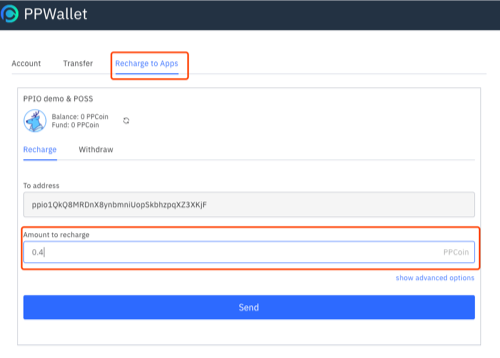
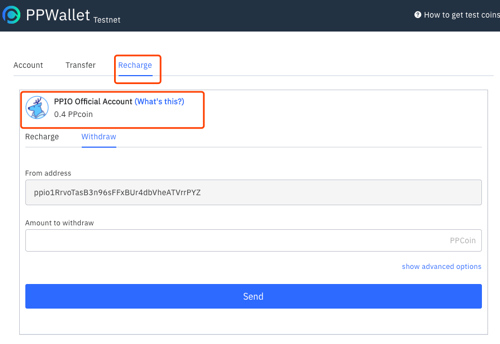
add  & change resource url

Changed region(s): [[0.03, 0.1453, 0.99, 0.9593], [0.0, 0.0, 1.0, 0.1163], [0.0, 0.1744, 0.09, 0.2035]]

diff --git a/sdk/Android.md b/sdk/Android.md
@@ -1,1 +1,155 @@
 # Android SDK
+## Introduction
+Android sdk is a Binary archive of Android library project for [PPIO CLI](https://www.pp.io/docs/cli/) intended for Android developers. It can be used in Android environments.
+
+## Getting started
+### Prepared your PPIO wallet account
+You must have a PPIO wallet account first. Make sure this account has PPcoin. And you need to recharge some PPcoin to PPIO. This is a [guide](../wallet/) to teach you how to generate a PPIO wallet account and get some of our test coins for free.
+
+### Install
+download `ppio.aar` from [here](https://github.com/ppio/ppio-sdk-android), and put it in the libs directory of your android project. then deploy app build.gradle.
+```
+apply plugin: 'com.android.application'
+
+android {
+   ...
+   repositories {
+     flatDir {
+       dirs 'libs'
+     }
+   }
+
+   dependencies {
+      ...
+      implementation(name: 'ppio', ext: 'aar')  
+      ...
+  }
+}
+```
+
+### Configuration
+```Java
+Config config = Poss.createDefaultConfig();
+
+config.setTCPPort(8068);
+config.setUDPPort(8068);
+config.setRPCPort(18068);
+
+config.setZone(2);
+
+File cacheDir = new File(Constant.PPIO_File.CACHE_DIR);
+
+config.setDir(cacheDir.getAbsolutePath());
+
+config.setTestNet("test");
+
+config.setBootstrap("[\n" +
+                        "  {\n" +
+                        "    \"Name\": \"ali-bootstrap\",\n" +
+                        "    \"IP\": \"47.110.88.167\",\n" +
+                        "    \"TCPPort\": 8020,\n" +
+                        "    \"UDPPort\": 8020,\n" +
+                        "    \"PeerID\": \"\"\n" +
+                        "  },\n" +
+
+                        "  {\n" +
+                        "    \"Name\": \"aws-bootstrap\",\n" +
+                        "    \"IP\": \"54.202.181.27\",\n" +
+                        "    \"TCPPort\": 8020,\n" +
+                        "    \"UDPPort\": 8020,\n" +
+                        "    \"PeerID\": \"\"\n" +
+                        "  }\n" +
+                        "]");
+
+config.getPayment().setIP("ad04b30b910c311e9b71c02d26ce9aff-567092461.us-west-
+2.elb.amazonaws.com");
+config.getPayment().setUDPPort(0);
+config.getPayment().setTCPPort(0);
+config.getPayment().setHTTPPort(18030);
+
+if (mIsOffice) {
+    config.getQosServerConfig().setEnable(true);
+    config.getQosServerConfig().setNetwork("udp");
+    config.getQosServerConfig().setAddr("192.168.50.208:9090");
+    config.getQosServerConfig().setTag("ppioqos");
+    config.getQosServerConfig().setDir(Constant.PPIO_File.CACHE_QOS_DIR);
+} else {
+    config.getQosServerConfig().setEnable(true);
+    config.getQosServerConfig().setNetwork("udp");
+    config.getQosServerConfig().setAddr("ad416ba1c124611e9a39d06111ae4d23-1840383830.us-west-2.elb.amazonaws.com:80");
+    config.getQosServerConfig().setTag("ppioqos");
+    config.getQosServerConfig().setDir(Constant.PPIO_File.CACHE_QOS_DIR);
+}
+
+Poss.initKeyStoreData(keyStoreStr, config.getDir());
+config.setKeyPassphrase(passPhrase);
+
+mUser = Poss.createUser(config);
+mUser.startDaemon();
+```
+
+* keyStoreStr：the keystore file content you get from the wallet;
+* passPhrase: the password for the keystore file;
+* Constant.PPIO_File.CACHE_DIR: the path of data directory you should set for the SDK.
+
+
+## Usage
+
+### Create a instance
+```java
+Poss.initKeyStoreData(keyStoreStr, config.getDir());
+config.setKeyPassphrase(passPhrase);
+
+mUser = Poss.createUser(config);
+```
+Before you can do this, you must first initialize keyStoreStr and passPhrase.
+
+### Start a PPIO daemon
+```java
+mUser.startDaemon();
+```
+
+### Stop the daemon
+```java
+mUser.stopDaemon();
+```
+
+## Other methods
+### createBucket
+```java
+mUser.createBucket(String bucket)
+```
+### putObject
+```java
+putObject(String bucket, String key, String file, String meta, String chiprice, long copies, String expires, boolean encrypt)
+```
+
+```java
+putObjectSync(String bucket, String key, String file, String meta, String chiprice, long copies, String expires, boolean encrypt)
+```
+This will upload a file to the net in the bucket and `key.putObject` is a asynchronous method, `putObjectSync` is a synchronize method.
+|Parameters|Type|Default|Description|
+|--|--|--|--|
+|bucket|string|None|Bucket name. Store objects in this bucket.|
+|key|string|None|Object key value. The unique index of the object within the bucket. The key length must be greater than 0 and less than 4096 bytes. You can use this to implement the object's directory|
+|body|string|None|The file path that needs to be uploaded. Without this parameter, an empty object (which can be thought of as an empty folder) is created inside the bucket. Empty files (0 bytes in size) and files larger than 10G are not supported.|
+|meta|string|None|Ancillary data for the object. Can't exceed 4096 bytes.|
+|chiprice|string|None|Store the price of the file. The indexer will schedule the storage miners based on this price, so the user's bid is reasonable, otherwise it may not be able to find a miner who is willing to provide storage services. This parameter is not required when creating an empty object.|
+|copies|int|5|The number of copies. Must be greater than 1 and less than or equal to 10. The default is 5. This parameter is not required when creating an empty object.|
+|expires|string|None|Expire date. The object is stored to this date and will be deleted if the user does not choose to extend the storage time after expiration. Supports dates in two formats, such as "2006-01-02" or "2006-01-02T15:04:05.000Z". The current time must be greater than or equal to one day, less than or equal to one year (365 days). This parameter is not required when creating an empty object.|
+|encrypt|bool|None|Whether encrypted, must be true|
+
+### getObject
+```java
+getObject(String bucket, String key, String shareCode, String file, String chiprice)
+```
+Get an object from the PPIO system to the local.
+|Parameters|Type|Default|Description|
+|--|--|--|--|
+|bucket|string|None|The bucket in which the object is located.|
+|key|string|None|The key value of the object.|
+|sharecode|string|None|Sharing code. This parameter is used when the bucket and key are empty.|
+|file|string|None|The file name to which the object is downloaded to the local. Absolute or relative paths can be|
+|chiprice|string|None|File download price.|
+
+**You can see all the methods [here](../api/).**

diff --git a/sdk/Nodejs.md b/sdk/Nodejs.md
@@ -1,11 +1,11 @@
-# poss-sdk-js
+# Node.js SDK
 
 ## Introduction
 Poss-sdk-js provides a node.js SDK that encapsulates the JSON-RPC services provided by poss. Developers who want to use the SDK need to download the [poss executable](https://www.pp.io/download.html) and start the poss service in the background fisrt.
 
 ## Getting started
 ### Prepared your PPIO wallet account
-You must have a PPIO wallet account first. Make sure this account has PPcoin. And you need to recharge some PPcoin to POSS. This is a [guide](../wallet/) to teach you how to generate a PPIO wallet account and get some of our test coins for free.
+You must have a PPIO wallet account first. Make sure this account has PPcoin. And you need to recharge some PPcoin to PPIO. This is a [guide](../wallet/) to teach you how to generate a PPIO wallet account and get some of our test coins for free.
 
 ### Install poss-sdk-js
 ```
@@ -15,38 +15,38 @@ npm install poss
 ### Download poss
 Since poss-sdk-js does not provide poss executable. You need to download it first.
 - **Windows:**  
-  Download the binary from [here](https://resource.testnet.pp.io/poss/release/windows-amd64/0.4.15/poss.exe).
+  Download the binary from [here](https://resource.testnet.pp.io/poss/release/windows-amd64/latest/poss.exe).
   ``` powershell
     poss.exe --help
   ```
 
 - **Mac OsX**  
     ``` bash
-      wget https://resource.testnet.pp.io/poss/release/macos/0.4.15/poss
+      wget https://resource.testnet.pp.io/poss/release/macos/latest/poss
       chmod -x poss
       ./poss --help
     ```
 
 - Linux:  
     ``` bash
-      wget https://resource.testnet.pp.io/poss/release/linux-amd64/0.4.15/poss
+      wget https://resource.testnet.pp.io/poss/release/linux-amd64/latest/poss
       chmod -x poss
       ./poss --help
     ```
 
 
-### Initialize POSS and start a POSS service in the background
-You can do these by [POSS CLI](../cli/#init).
+### Initialize PPIO and start a PPIO service in the background
+You can do these by [PPIO CLI](../cli/#init).
 ```bash
-# import your walllet user credentials into POSS CLI
+# import your walllet user credentials into PPIO CLI
 ./poss init --keystorepath=[your keystore file absolute path]
 
-# start the poss service background
+# start the PPIO service background
 ./poss start --daemon --passphrase=[your wallet password]
 ```
 or
 ```bash
-# import your walllet user credentials into POSS CLI and start the poss service background
+# import your walllet user credentials into PPIO CLI and start the PPIO service background
 ./poss start --daemon --keystorepath=[your keystore file absolute path] --passphrase=[your wallet password]
 ```
 
@@ -115,7 +115,7 @@ const poss = new Poss({
 | :------: | :------: | :------ |
 | [options] | `object` | The options of poss instance |
 | [options.possExecutablePath] (optional) | `string` | The path of the poss executable, will take no effect in browsers. |
-| [options.rpcport] (optional) | `number` | The RPC port of a running POSS daemon. If you are running POSS daemon from the terminal, use this config to indicate the RPC port the daemon is listening. |
+| [options.rpcport] (optional) | `number` | The RPC port of a running PPIO daemon. If you are running PPIO daemon from the terminal, use this config to indicate the RPC port the daemon is listening. |
 
 ### Initialize a data directory
 ```javascript
@@ -128,34 +128,34 @@ This will create a folder(`path/to/poss-dir`) in which poss will store user's da
 ::: warning NOTE:
 this method only works in Node.js environment, and `possExecutablePath` must be provided when creating the Poss instance.
 :::
-Complete configuration can be found in [POSS cmd documentation](https://www.pp.io/docs/api/).
+Complete configuration can be found in [PPIO JSON-RPC API Reference](https://www.pp.io/docs/api/).
 
-### Start a POSS daemon
+### Start a PPIO daemon
 ```javascript
 poss.startDaemon({
   'datadir': '.ppio-demo'
   'wallet-key': 'your private key',
 })
 ```
-This will start a POSS daemon. If you do not specify the RPC port or TCP/UDP port, poss.js will find an available port automatically.
+This will start a PPIO daemon. If you do not specify the RPC port or TCP/UDP port, poss.js will find an available port automatically.
 
 ::: warning NOTE:
 this method only works in Node.js environment, and `possExecutablePath` must be provided when creating the Poss instance.
 :::
 
-Complete configuration can be found in [POSS cmd documentation](https://www.pp.io/docs/api/).
+Complete configuration can be found in [PPIO JSON-RPC API Reference](https://www.pp.io/docs/api/).
 
 ### Stop the daemon
 ```javascript
 poss.stopDaemon()
 ```
-This will stop a POSS daemon. If you do not specify the RPC port or TCP/UDP port, poss.js will find an available port automatically.
+This will stop a PPIO daemon. If you do not specify the RPC port or TCP/UDP port, poss.js will find an available port automatically.
 
 ::: warning NOTE:
 this method only works in Node.js environment, and `possExecutablePath` must be provided when creating the Poss instance.
 :::
 
-Complete configuration can be found in [POSS cmd documentation](https://www.pp.io/docs/api/).
+Complete configuration can be found in [PPIO JSON-RPC API Reference](https://www.pp.io/docs/api/).
 
 ## Other methods
 
@@ -163,7 +163,7 @@ Complete configuration can be found in [POSS cmd documentation](https://www.pp.i
 ```javascript
 poss.setPossExecutablePath('path/to/poss')
 ```
-Set the POSS executable path. It then can be accessed via `poss.possPath`
+Set the PPIO executable path. It then can be accessed via `poss.possPath`
 
 ### setDefaultBucket
 ```javascript
@@ -174,7 +174,7 @@ This will create a bucket with the bucket name you specified and set it as the d
 ## Properties
 
 ### possPath[string]
-The path of the POSS executable.
+The path of the PPIO executable.
 
 ### runningDaemonPort[number]
 The RPC port that the current running daemon is listening. If you create a Poss instance with `rpcport` option, that port will be set to this property. When starting daemon, if `runningDaemonPort` is not `0`, POSS daemon will not be started for there is already a daemon running. And [stopping a daemon](#stop-the-daemon) will set `runningDaemonPort` to 0.

diff --git a/wallet/README.md b/wallet/README.md
@@ -4,14 +4,14 @@ PPIO wallet is a decentralized blockchain-based wallet. And PPIO wallet account 
 
 Now that PPIO's testnet is just online, you can go to [here](https://faucet.testnet.pp.io) to get some test coins for your PPIO wallet account.
 
+And you can find the transaction records of all PPIO wallet accounts [here](https://explorer.testnet.pp.io).
+
 > If you don't understand the concept of blockchain wallet, there will be a lot of articles on Google.
 
-## One thing to Notice
-One thing to notice is that even if you have [PPcoin](#unit-in-ppio-wallet) in your PPIO wallet account, it doesn't mean you can use PPIO's service immediately. You need to recharge the money for a specific PPIO wallet address before you can use it. We call the specific PPIO wallet address **holder account**.
+## PPIO Official Account
+PPIO wallet is your digital wallet. But if you want to use PPIO's storage service, you must recharge some [PPcoin](#unit-in-ppio-wallet) to a PPIO Afficial Account to purchase these services. And this process can only be operated by you.This kind of processing is troublesome, but it is more in line with the idea of decentralization, and even if the PPIO service is attacked, it will not affect your wallet.
 
-**For example: If you want to use PPIO CLI, you must first recharge the money into the PPIO wallet and then recharge the money to holder account.**
-
-This kind of processing is troublesome, but it is more in line with the idea of decentralization, and even if the PPIO service is attacked, it will not affect your wallet.
+> PPIO Official Account is a specific PPIO account. Its address is `ppio1RrvoTasB3n96sFFxBUr4dbVheATVrrPYZ`.
 
 ## Generate a PPIO wallet account
 Go to [PPIO wallet](https://wallet.testnet.pp.io/#/new/create) to generate a PPIO wallet account.
@@ -38,8 +38,9 @@ PPIO wallet currently supports importing keystore files and importing private ke
 You can transfer to any PPIO wallet address.
 ![wallet transfer](../Images/wallet-transfer.png)
 
-## Recharge PPIO Service
-You have to recharge some PPcoin to holder account to use PPIO services.
+## Recharge to Use PPIO Services
+You have to recharge some PPcoin to **PPIO Official account** => `ppio1RrvoTasB3n96sFFxBUr4dbVheATVrrPYZ` to use PPIO services.
+
 ![import wallet](../Images/recharge-ppio-service.png)
 
 ## Unit in PPIO wallet

diff --git a/how_to_use_ppio_cli.md b/how_to_use_ppio_cli.md
@@ -5,21 +5,21 @@
 
 ## Step1: Install PPIO CLI
 - **Windows:**  
-  Download the binary from [here](https://resource.testnet.pp.io/poss/release/windows-amd64/0.4.15/poss.exe).
+  Download the binary from [here](https://resource.testnet.pp.io/poss/release/windows-amd64/latest/poss.exe).
   ``` powershell
     poss.exe --help
   ```
 
 - **Mac OsX**  
     ``` bash
-      wget https://resource.testnet.pp.io/poss/release/macos/0.4.15/poss
+      wget https://resource.testnet.pp.io/poss/release/macos/latestla/poss
       chmod -x poss
       ./poss --help
     ```
 
 - Linux:  
     ``` bash
-      wget https://resource.testnet.pp.io/poss/release/linux-amd64/0.4.15/poss
+      wget https://resource.testnet.pp.io/poss/release/linux-amd64/latest/poss
       chmod -x poss
       ./poss --help
     ```

diff --git a/api/README.md b/api/README.md
@@ -35,12 +35,12 @@ Initiate an rpc request to the local port 18060 to obtain the API version. The c
 |jsonrpc|"2.0"|jsonrpc version|
 |result|None|If the rpc request is executed successfully, result is a string indicating that the message is returned or `null` indicates no message|
 |error|None|If the rpc request fails, error is a json object. `error.code` indicates the error code, `error.message` indicates the error message|
-
 Take the API version as an example:
-```json
+```
 {"id":1,"jsonrpc":"2.0","result":"0.1"}
 ```
 The value corresponding to the `result` field is "0.1", which is the API version number that was successfully obtained.
+
 ---
 
 ## **StopDaemon**
